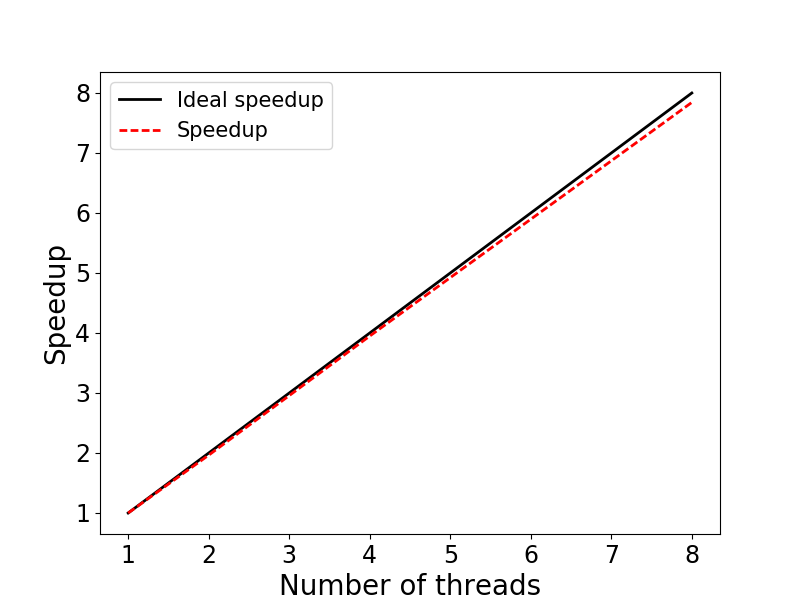
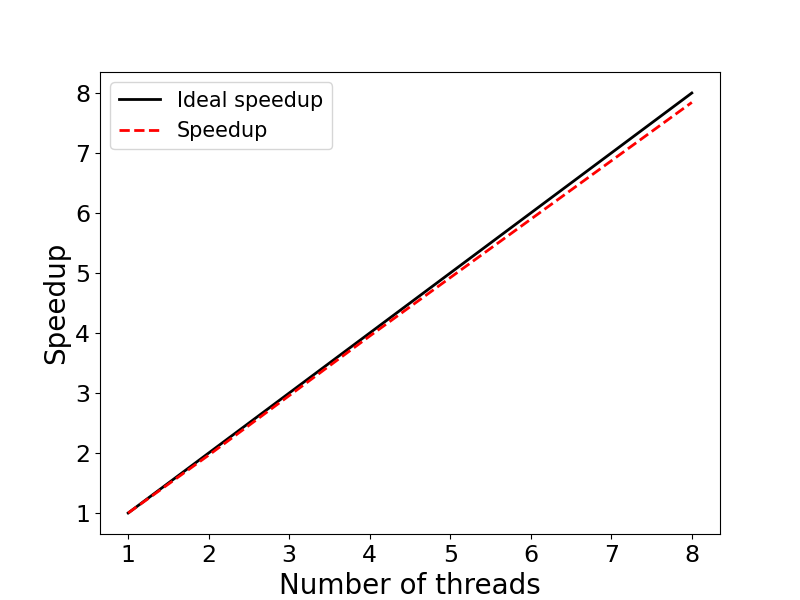
update exercise 6 to fas-ondemand for spring 2021

diff --git a/Courses/CS205/OpenMP/Example6/speedup.py b/Courses/CS205/OpenMP/Example6/speedup.py
@@ -23,10 +23,10 @@ for i in n:
     efficiency.append(e)
 
 # Print out results
-print "    Nthreads  Walltime  Speedup  Efficiency (%)"
+print ("    Nthreads  Walltime  Speedup  Efficiency (%)")
 for i in n:
-    print "%8d %11.2f %8.2f %11.2f" % \
-        (nproc[i], walltime[i], speedup[i], efficiency[i])
+    print ("%8d %11.2f %8.2f %11.2f" % \
+        (nproc[i], walltime[i], speedup[i], efficiency[i]))
     
 
 fig, ax = plt.subplots(figsize=(8,6))
@@ -39,4 +39,4 @@ plt.ylabel('Speedup', fontsize=20)
 plt.legend(fontsize=15,loc=2)
 
 plt.savefig('speedup.png', format='png')
-plt.show()
+#plt.show()

diff --git a/Courses/CS205/OpenMP/Example6/README.md b/Courses/CS205/OpenMP/Example6/README.md
@@ -14,7 +14,7 @@
 ### Example Usage:
 
 ```bash
-module load gcc/4.8.2-fasrc01		# Load required software modules
+module load gcc/9.3.0-fasrc01		# Load required software modules
 make             			# Compile
 sbatch sbatch.run 			# Send the job to the queue
 ```
@@ -84,36 +84,29 @@ int main (int argc, char *argv[]) {
 #SBATCH -J omp_pi
 #SBATCH -o omp_pi.out
 #SBATCH -e omp_pi.err
-#SBATCH -p shared
 #SBATCH -t 0-00:30
 #SBATCH -N 1
 #SBATCH -c 8
 #SBATCH --mem=4000
 
-# Set up environment
-WORK_DIR=/scratch/${USER}/${SLURM_JOB_ID}
 PRO=omp_pi
-### or WORK_DIR=/n/regal/cs205/${USER}/${SLURM_JOB_ID}
-mkdir -pv ${WORK_DIR}
-cd $WORK_DIR
-cp ${SLURM_SUBMIT_DIR}/${PRO}.x .
-rm -rf ${PRO}.dat
+rm -rf ${PRO}.dat speedup.png
 touch ${PRO}.dat
 
 # Load required software modules
-module load gcc/8.2.0-fasrc01
+module load gcc/9.3.0-fasrc01
 
 # Run program with 1, 2, 4, and 8 OpenMP threads
 for i in 1 2 4 8
 do
     echo "Number of threads: ${i}"
-    srun -c ${i} ./${PRO}.x 1000000000 ${i} >> ${PRO}.dat
+    srun -c ${i} ./${PRO}.x 100000000 ${i} >> ${PRO}.dat
     echo " "
 done
 
-# Copy back the result and clean up
-cp *.dat ${SLURM_SUBMIT_DIR}
-rm -rf ${WORK_DIR}
+sleep 2
+module load Anaconda3
+python speedup.py
 ```
 
 ### Example Output:
